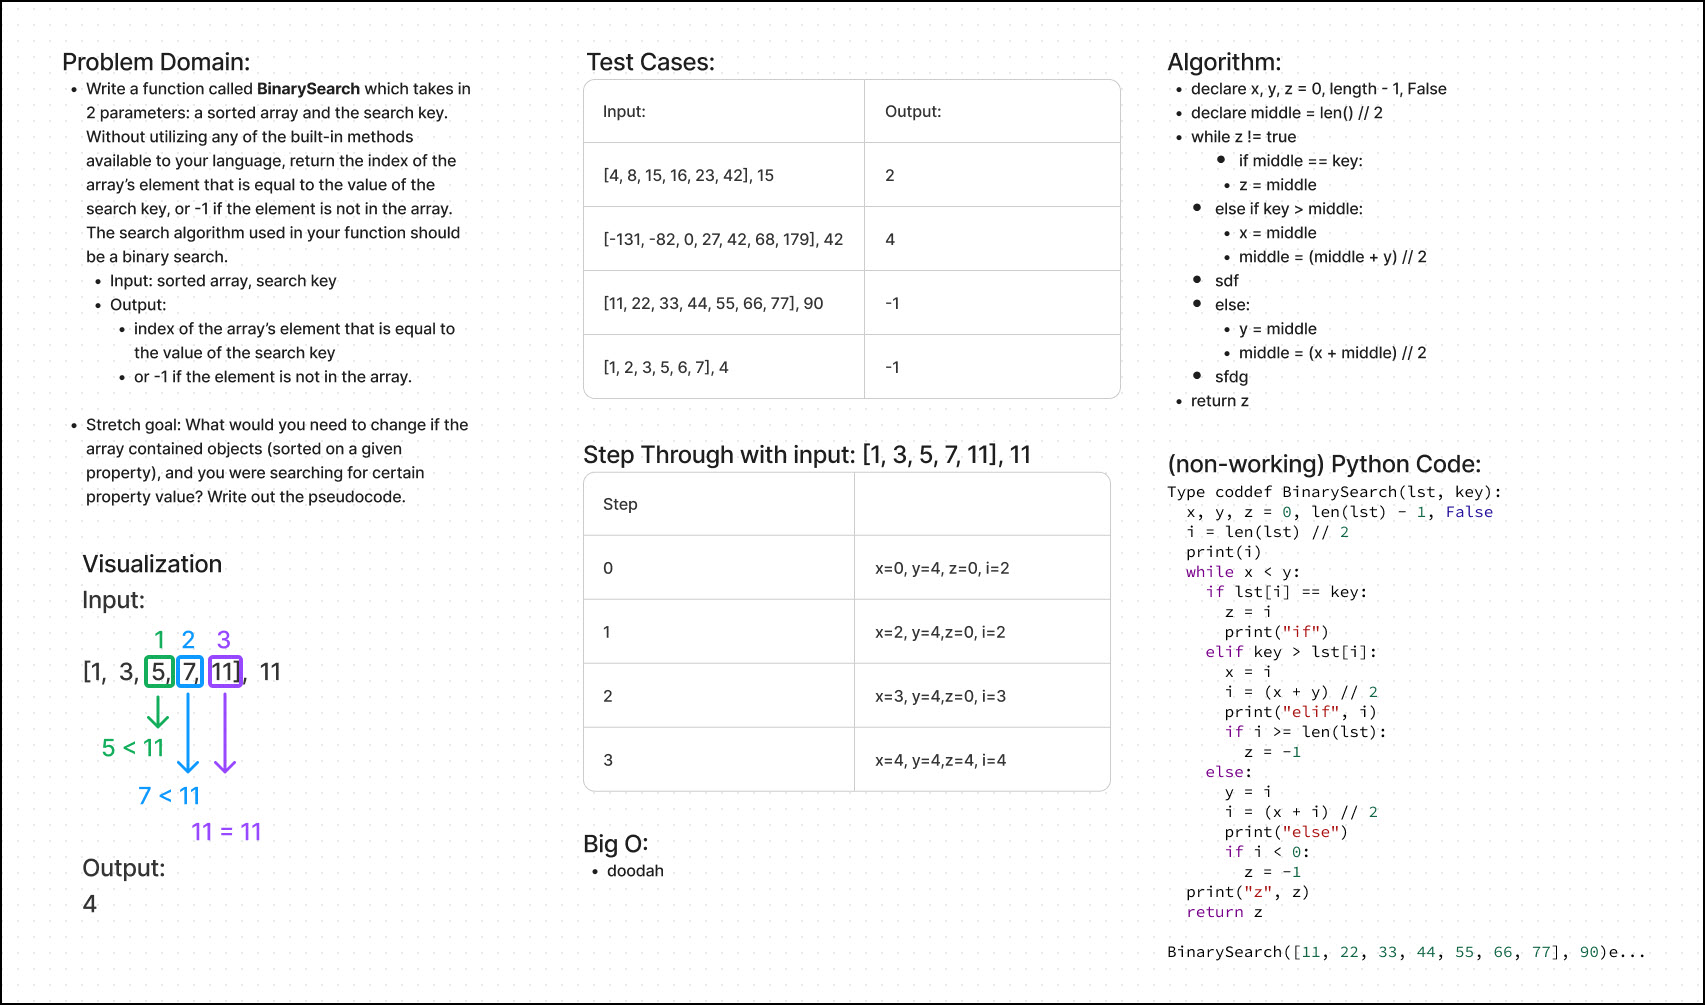
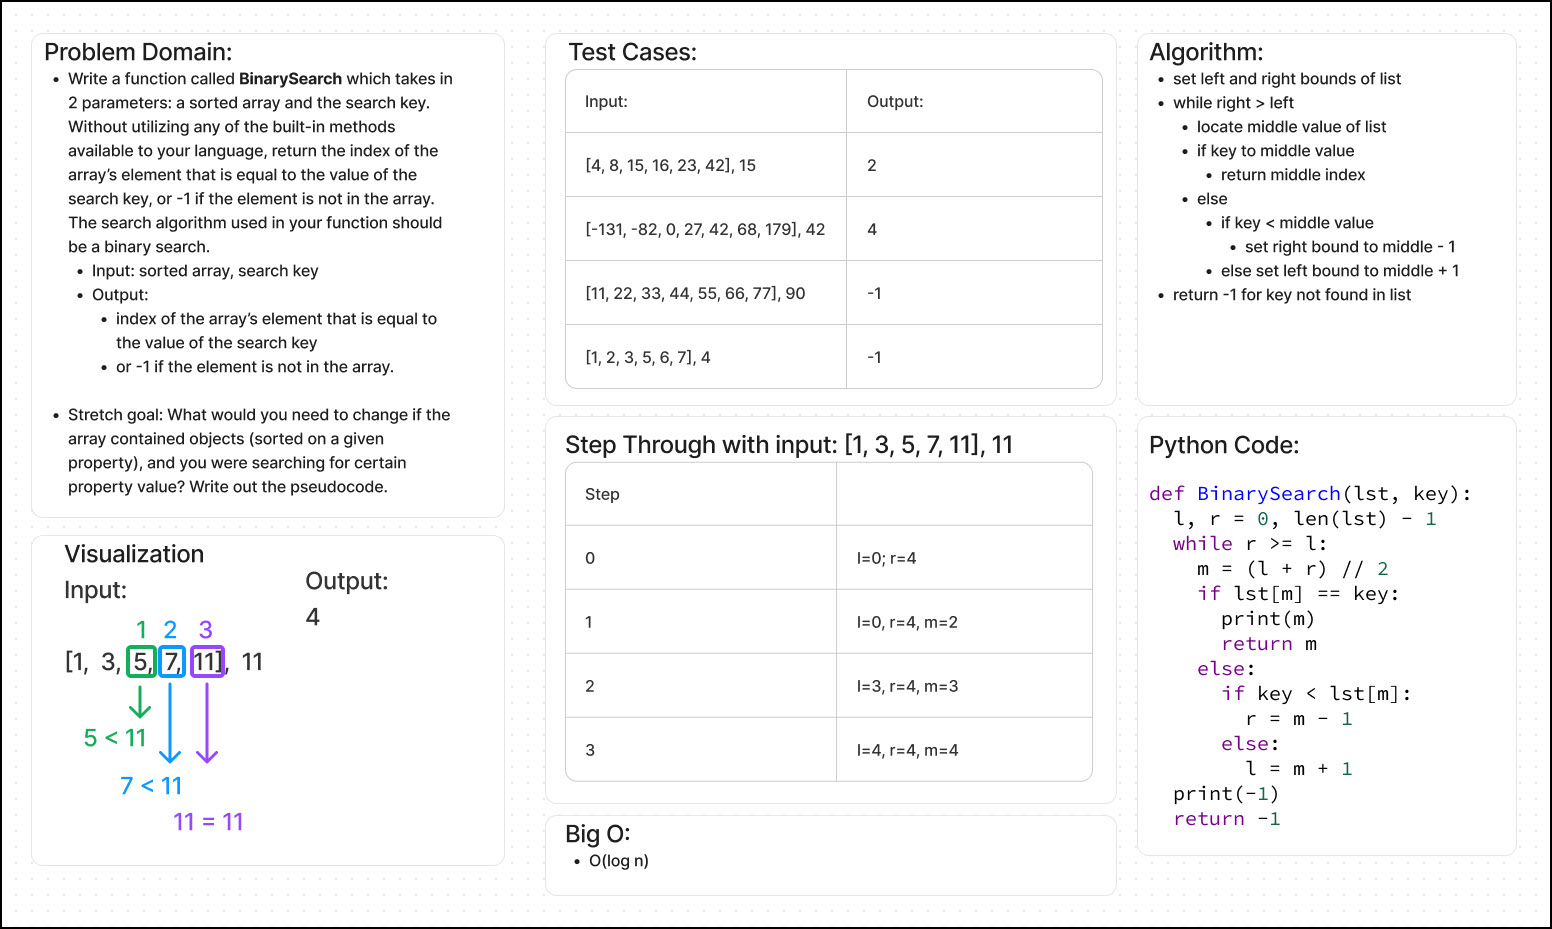
completed cc03 with updated whiteboard and README

diff --git a/python/docs/array-binary-search/README.md b/python/docs/array-binary-search/README.md
@@ -6,7 +6,7 @@ Write a function called `BinarySearch` which takes in 2 parameters: a sorted arr
 
 ## Stretch Goal
 
-What would you need to change if the array contained objects (sorted on a given property), and you were searching for certain property value? Write out the pseudocode.
+What would you need to change if the array contained objects (sorted on a given property), and you were searching for certain property value? Write out the pseudocode. **not attempted**
 
 ## Whiteboard Process
 
@@ -14,7 +14,7 @@ What would you need to change if the array contained objects (sorted on a given 
 
 ## Approach & Efficiency
 
-<!-- What approach did you take? Why? What is the Big O space/time for this approach? -->
+The instructions required the use of a binary search algorithm. [The number of steps in the binary search algorithm is directly related to the logarithmic of its number of elements.](https://medium.com/@samip.sharma963/binary-search-and-its-big-o-3333d13bd6ec)
 
 ## Solution
 
